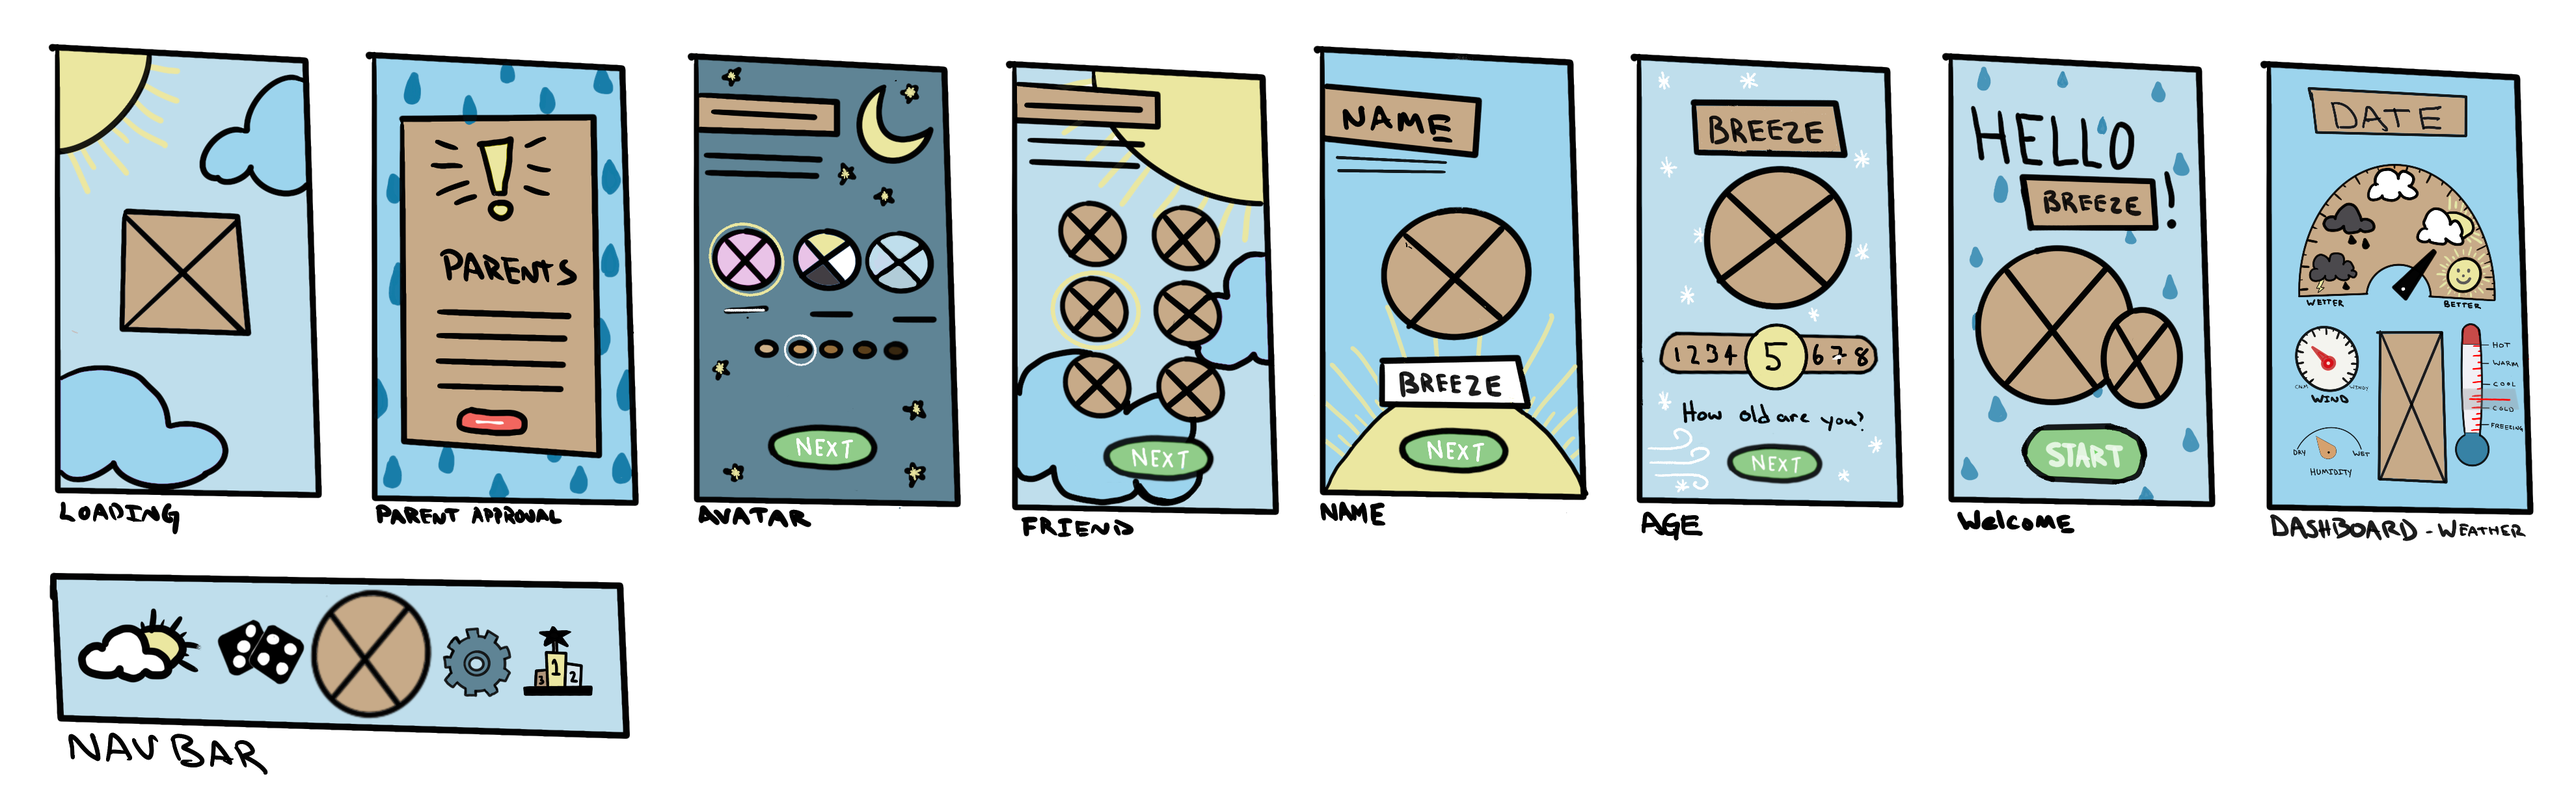
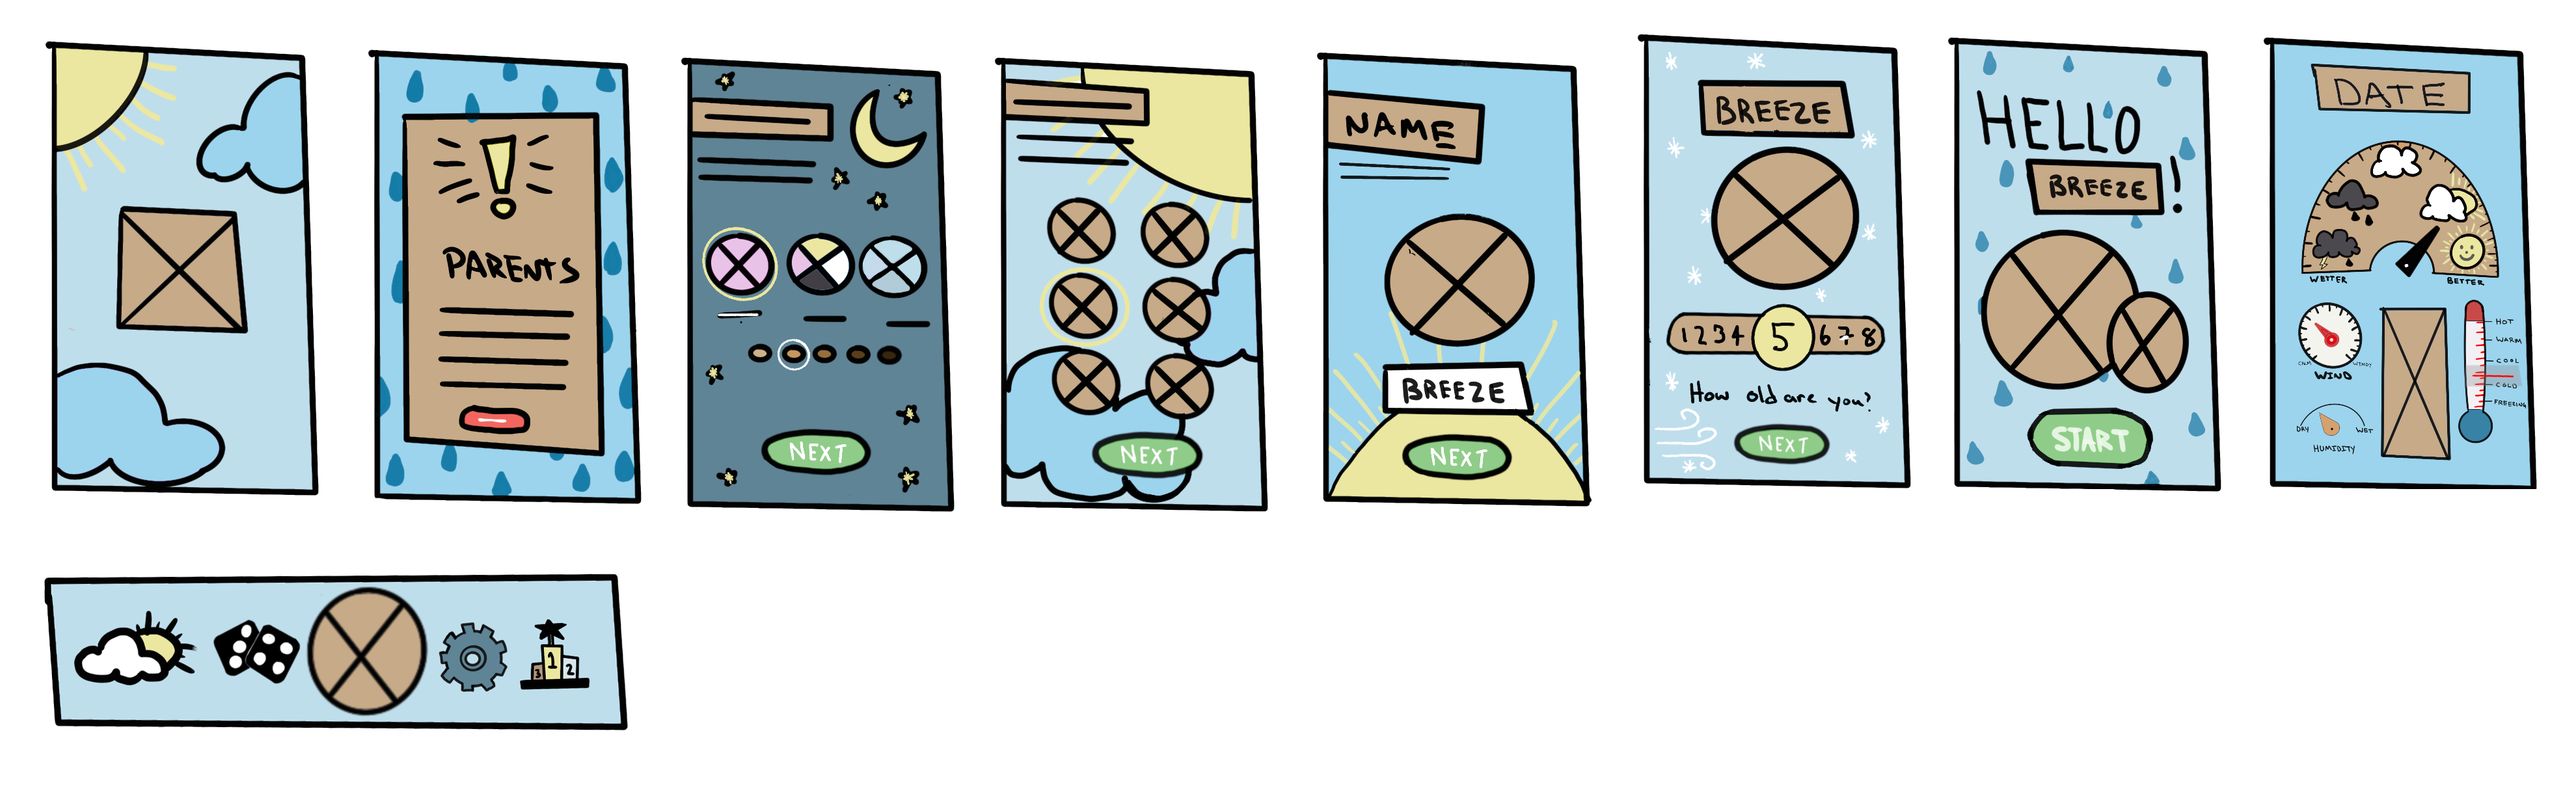
fix mistakes on index
update image thum size to be ,more responsive
updated new Cato Wireframe img with transparent bg

Changed region(s): [[0.0, 0.031, 0.9942, 0.6813], [0.0, 0.7123, 0.2485, 0.9601]]

diff --git a/styles/main.css b/styles/main.css
@@ -1039,29 +1039,41 @@ margin-left: ;
     margin-left: 5rem;
     margin-right: 5rem;
 }
+.head-shot {
+    margin-top: 8rem;
+
+}
+.thumb-img {
+    max-width: 320px;
+}
 
 .welcome {
     display: flex;
-    justify-content: center;
-    padding-top: 10rem;
-    padding-bottom: 10rem;
+    justify-content: space-around;
+    padding-top: 2rem;
+    /* padding-bottom: 10rem; */
+
 }
 .intro h2 {
+    margin-left: -4rem;
     font-weight: 700;
-    font-size: 4rem;
-    letter-spacing: .2rem; 
+    font-size: 3rem;
+    letter-spacing: .2rem;
+    line-height: 4rem; 
 }
 .intro h1 {
+    margin-left: -4rem;
     font-weight: 200;
-    font-size: 3rem;
+    font-size: 1.7rem;
     letter-spacing: .1rem;
-    line-height: 1.7rem;
+    line-height: 3rem;
 }
 .intro p {
+    margin-left: -4rem;
     font-weight: 200;
-    font-size: 1.5rem;
+    font-size: 1.7rem;
     letter-spacing: .1rem;
-    line-height: 1.7rem;
+    line-height: 3rem;
 }
 .feature-section {
     gap: 16px;
@@ -1163,9 +1175,33 @@ margin-left: ;
     border: 0.3rem solid transparent;
     border-radius: 3rem;
   }
+  .cato-section .thumb-img {
+    max-width: 600px;
+}
 }
 
 @media (min-width: 1440px) {
+    .intro h2 {
+        margin-left: -9rem;
+        font-weight: 700;
+        font-size: 3rem;
+        letter-spacing: .2rem;
+        line-height: 4rem; 
+    }
+    .intro h1 {
+        margin-left: -9rem;
+        font-weight: 200;
+        font-size: 1.7rem;
+        letter-spacing: .1rem;
+        line-height: 3rem;
+    }
+    .intro p {
+        margin-left: -9rem;
+        font-weight: 200;
+        font-size: 1.7rem;
+        letter-spacing: .1rem;
+        line-height: 3rem;
+    }
     .intro {
         margin: 3rem;
     }

diff --git a/Artifacts/Glamazon.html b/Artifacts/Glamazon.html
@@ -103,7 +103,7 @@
                         </div>
                         <br><br>
                         </div>
-                        <div class="glam-btn">
+                        <div class="flex flex-middle">
                             <a href="https://www.flickr.com/photos/196787137@N07/albums/72177720303132600" target="_blank" class="bn3637 bn38">VIEW ALL IMAGES</a>
                         </div>
         </div>

diff --git a/styles/bubbles.css b/styles/bubbles.css
@@ -391,11 +391,11 @@ body {
       margin-top: -18.5rem;
       
     }
-  }
+  } */
 
   @media (min-width: 1200px) {
   .bokeh {
-    margin-top: -8rem;
+    margin-top: -.8rem;
     
   }
-} */
+}
